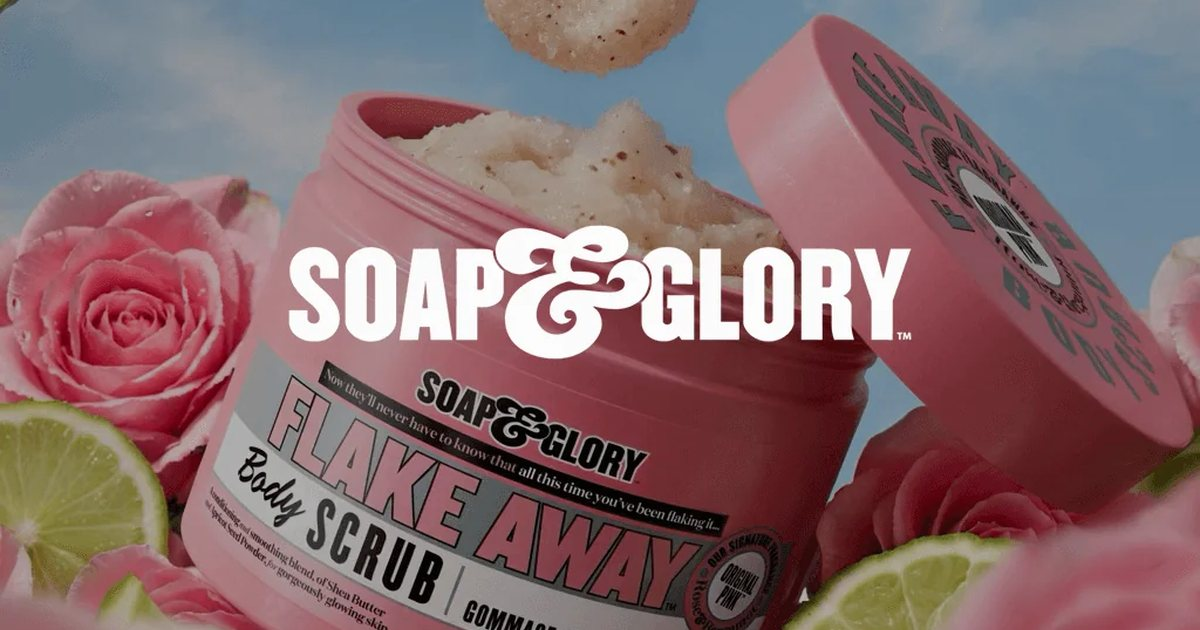
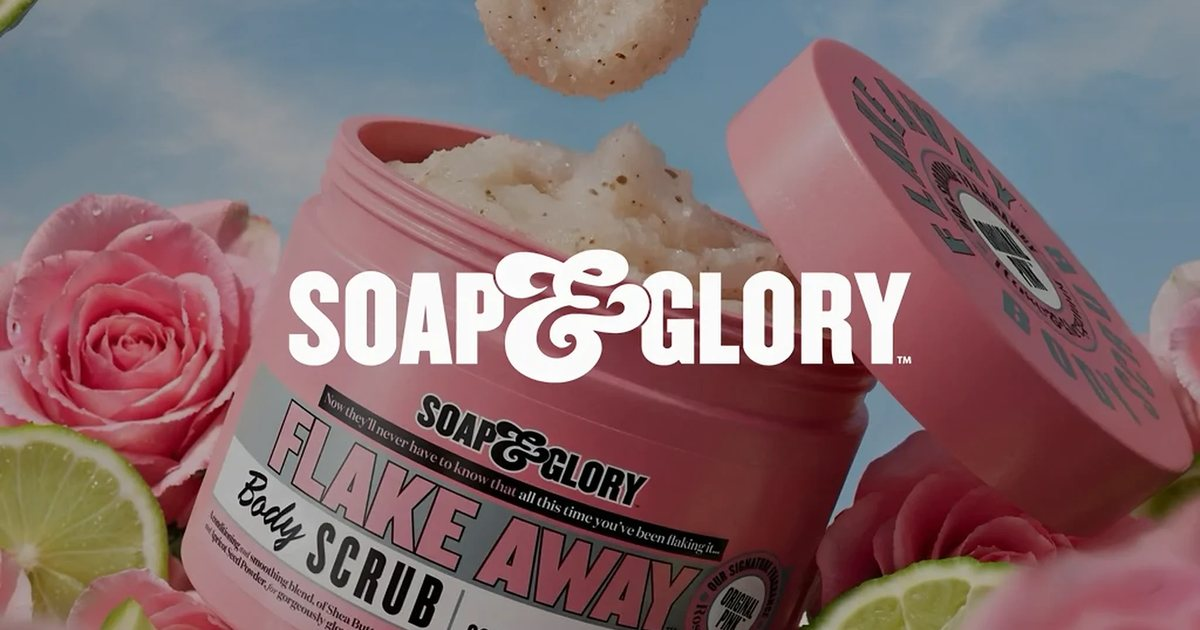
Soap & Glory: new header
New landscape header cropped from the new portrait key visual with the logo
centered. The previous cover moves to the start of the gallery; link preview
regenerated.

Claude-Session: https://claude.ai/code/session_01T7Gp6gWJVyCsnSqvmreLM5

diff --git a/work/soapandglory/index.html b/work/soapandglory/index.html
@@ -32,6 +32,7 @@
             "description": "A series of AI-crafted beauty visuals for Soap & Glory, blending playful, fragrance-inspired worlds with precise product reproduction. Working alongside expert photoretouchers, I developed campaign-ready imagery that preserves packaging accuracy, material realism, and texture detail while pushing the creative possibilities beyond traditional product photography. Property of WPP Production / WPP Holding. Featured here to showcase my contribution as part of the production and creative team.",
             "image": [
               "https://nicolo-lombardi.com/assets/og/soapandglory.jpg",
+              "https://nicolo-lombardi.com/assets/fQqLobjVjQLcjn0oYAmyuUyPAs.webp",
               "https://nicolo-lombardi.com/assets/SKCYB8BMwkneaPvdQDQqhbuyVKE.webp",
               "https://nicolo-lombardi.com/assets/VsTh5pQROkDtulNoeTzjH4oFN10.webp",
               "https://nicolo-lombardi.com/assets/WPCII4Q6wfoAC5QLMGvrtZzfiMg.webp",
@@ -152,7 +153,7 @@
     </header>
 
     <!-- Pre-built by tools/build.mjs; js/app.js re-renders it with interactions -->
-    <main id="main"><article class="detail"><a class="back" href="/visuals/#p-soapandglory">back</a><section class="image-gallery" aria-label="Soap &amp; Glory images" aria-roledescription="carousel"><div class="image-track" tabindex="0" aria-label="Image carousel — use up and down arrows"><figure class="image-slide" role="group" aria-label="Image 1 of 9"><img src="/assets/SKCYB8BMwkneaPvdQDQqhbuyVKE.webp" alt="Soap &amp; Glory (AI Product Shot), image 1" loading="lazy" decoding="async"></figure><figure class="image-slide" role="group" aria-label="Image 2 of 9"><img src="/assets/VsTh5pQROkDtulNoeTzjH4oFN10.webp" alt="Soap &amp; Glory (AI Product Shot), image 2" loading="lazy" decoding="async"></figure><figure class="image-slide" role="group" aria-label="Image 3 of 9"><img src="/assets/WPCII4Q6wfoAC5QLMGvrtZzfiMg.webp" alt="Soap &amp; Glory (AI Product Shot), image 3" loading="lazy" decoding="async"></figure><figure class="image-slide" role="group" aria-label="Image 4 of 9"><img src="/assets/ZNevGqjeZtnNwmtIkJQYvFLGwNI.webp" alt="Soap &amp; Glory (AI Product Shot), image 4" loading="lazy" decoding="async"></figure><figure class="image-slide" role="group" aria-label="Image 5 of 9"><img src="/assets/qxYVszQfCWqf8VjXjMmMxJaTd9I.webp" alt="Soap &amp; Glory (AI Product Shot), image 5" loading="lazy" decoding="async"></figure><figure class="image-slide" role="group" aria-label="Image 6 of 9"><img src="/assets/soapandglory-01.webp" alt="Soap &amp; Glory (AI Product Shot), image 6" loading="lazy" decoding="async"></figure><figure class="image-slide" role="group" aria-label="Image 7 of 9"><img src="/assets/soapandglory-02.webp" alt="Soap &amp; Glory (AI Product Shot), image 7" loading="lazy" decoding="async"></figure><figure class="image-slide" role="group" aria-label="Image 8 of 9"><img src="/assets/soapandglory-03.webp" alt="Soap &amp; Glory (AI Product Shot), image 8" loading="lazy" decoding="async"></figure><figure class="image-slide" role="group" aria-label="Image 9 of 9"><img src="/assets/soapandglory-04.webp" alt="Soap &amp; Glory (AI Product Shot), image 9" loading="lazy" decoding="async"></figure></div><div class="image-navigation"><button class="gallery-prev" aria-label="Previous image">↑</button><button class="gallery-next" aria-label="Next image">↓</button></div></section><header class="detail-heading"><h1>Soap &amp; Glory</h1><p>AI Product Shot</p></header><div class="detail-text"><h2>About the project</h2><p>A series of AI-crafted beauty visuals for Soap &amp; Glory, blending playful, fragrance-inspired worlds with precise product reproduction. Working alongside expert photoretouchers, I developed campaign-ready imagery that preserves packaging accuracy, material realism, and texture detail while pushing the creative possibilities beyond traditional product photography.
+    <main id="main"><article class="detail"><a class="back" href="/visuals/#p-soapandglory">back</a><section class="image-gallery" aria-label="Soap &amp; Glory images" aria-roledescription="carousel"><div class="image-track" tabindex="0" aria-label="Image carousel — use up and down arrows"><figure class="image-slide" role="group" aria-label="Image 1 of 10"><img src="/assets/fQqLobjVjQLcjn0oYAmyuUyPAs.webp" alt="Soap &amp; Glory (AI Product Shot), image 1" loading="lazy" decoding="async"></figure><figure class="image-slide" role="group" aria-label="Image 2 of 10"><img src="/assets/SKCYB8BMwkneaPvdQDQqhbuyVKE.webp" alt="Soap &amp; Glory (AI Product Shot), image 2" loading="lazy" decoding="async"></figure><figure class="image-slide" role="group" aria-label="Image 3 of 10"><img src="/assets/VsTh5pQROkDtulNoeTzjH4oFN10.webp" alt="Soap &amp; Glory (AI Product Shot), image 3" loading="lazy" decoding="async"></figure><figure class="image-slide" role="group" aria-label="Image 4 of 10"><img src="/assets/WPCII4Q6wfoAC5QLMGvrtZzfiMg.webp" alt="Soap &amp; Glory (AI Product Shot), image 4" loading="lazy" decoding="async"></figure><figure class="image-slide" role="group" aria-label="Image 5 of 10"><img src="/assets/ZNevGqjeZtnNwmtIkJQYvFLGwNI.webp" alt="Soap &amp; Glory (AI Product Shot), image 5" loading="lazy" decoding="async"></figure><figure class="image-slide" role="group" aria-label="Image 6 of 10"><img src="/assets/qxYVszQfCWqf8VjXjMmMxJaTd9I.webp" alt="Soap &amp; Glory (AI Product Shot), image 6" loading="lazy" decoding="async"></figure><figure class="image-slide" role="group" aria-label="Image 7 of 10"><img src="/assets/soapandglory-01.webp" alt="Soap &amp; Glory (AI Product Shot), image 7" loading="lazy" decoding="async"></figure><figure class="image-slide" role="group" aria-label="Image 8 of 10"><img src="/assets/soapandglory-02.webp" alt="Soap &amp; Glory (AI Product Shot), image 8" loading="lazy" decoding="async"></figure><figure class="image-slide" role="group" aria-label="Image 9 of 10"><img src="/assets/soapandglory-03.webp" alt="Soap &amp; Glory (AI Product Shot), image 9" loading="lazy" decoding="async"></figure><figure class="image-slide" role="group" aria-label="Image 10 of 10"><img src="/assets/soapandglory-04.webp" alt="Soap &amp; Glory (AI Product Shot), image 10" loading="lazy" decoding="async"></figure></div><div class="image-navigation"><button class="gallery-prev" aria-label="Previous image">↑</button><button class="gallery-next" aria-label="Next image">↓</button></div></section><header class="detail-heading"><h1>Soap &amp; Glory</h1><p>AI Product Shot</p></header><div class="detail-text"><h2>About the project</h2><p>A series of AI-crafted beauty visuals for Soap &amp; Glory, blending playful, fragrance-inspired worlds with precise product reproduction. Working alongside expert photoretouchers, I developed campaign-ready imagery that preserves packaging accuracy, material realism, and texture detail while pushing the creative possibilities beyond traditional product photography.
 
 Property of WPP Production / WPP Holding. Featured here to showcase my contribution as part of the production and creative team.</p></div><a class="next-project" href="/work/wichita-666/"><span>Next project</span><strong>Wichita Production</strong></a></article></main>
 

diff --git a/visuals/index.html b/visuals/index.html
@@ -161,7 +161,7 @@
     </header>
 
     <!-- Pre-built by tools/build.mjs; js/app.js re-renders it with interactions -->
-    <main id="main"><h1 class="sr-only">Visual projects by Nicoló Lombardi</h1><div class="project-scroll" aria-label="Visual projects"><section class="project-section" id="p-soapandglory" data-project="soapandglory" aria-label="Soap &amp; Glory"><a class="project-open" href="/work/soapandglory/" aria-label="Open Soap &amp; Glory project"></a><img src="/assets/fQqLobjVjQLcjn0oYAmyuUyPAs.webp" alt="Soap &amp; Glory — AI Product Shot by Nicoló Lombardi" loading="eager" decoding="async"></section><section class="project-section" id="p-toyota" data-project="toyota" aria-label="Toyota — Ma Toyota est Fantastique"><a class="project-open" href="/work/toyota/" aria-label="Open Toyota — Ma Toyota est Fantastique project"></a><img src="/assets/toyota-header.webp" alt="Toyota — Ma Toyota est Fantastique — Digital Asset by Nicoló Lombardi" loading="lazy" decoding="async"></section><section class="project-section" id="p-elaguila" data-project="elaguila" aria-label="El Águila — La hora dorada"><a class="project-open" href="/work/elaguila/" aria-label="Open El Águila — La hora dorada project"></a><img src="/assets/elaguila-header.webp" alt="El Águila — La hora dorada — Virtual Production by Nicoló Lombardi" loading="lazy" decoding="async"></section><section class="project-section" id="p-anaya" data-project="anaya" aria-label="Anaya — ANAYA"><a class="project-open" href="/work/anaya/" aria-label="Open Anaya — ANAYA project"></a><img src="/assets/anaya-header.webp" alt="Anaya — ANAYA — Educational Video by Nicoló Lombardi" loading="lazy" decoding="async"></section><section class="project-section" id="p-wppproduction" data-project="wppproduction" aria-label="WPP Production — Virtual Production"><a class="project-open" href="/work/wppproduction/" aria-label="Open WPP Production — Virtual Production project"></a><img src="/assets/wppproduction-header.webp" alt="WPP Production — Virtual Production — Virtual Production by Nicoló Lombardi" loading="lazy" decoding="async"></section></div><a class="view-project" href="/work/soapandglory/" aria-label="View Soap &amp; Glory project" hidden>view project</a></main>
+    <main id="main"><h1 class="sr-only">Visual projects by Nicoló Lombardi</h1><div class="project-scroll" aria-label="Visual projects"><section class="project-section" id="p-soapandglory" data-project="soapandglory" aria-label="Soap &amp; Glory"><a class="project-open" href="/work/soapandglory/" aria-label="Open Soap &amp; Glory project"></a><img src="/assets/soapandglory-header.webp" alt="Soap &amp; Glory — AI Product Shot by Nicoló Lombardi" loading="eager" decoding="async"></section><section class="project-section" id="p-toyota" data-project="toyota" aria-label="Toyota — Ma Toyota est Fantastique"><a class="project-open" href="/work/toyota/" aria-label="Open Toyota — Ma Toyota est Fantastique project"></a><img src="/assets/toyota-header.webp" alt="Toyota — Ma Toyota est Fantastique — Digital Asset by Nicoló Lombardi" loading="lazy" decoding="async"></section><section class="project-section" id="p-elaguila" data-project="elaguila" aria-label="El Águila — La hora dorada"><a class="project-open" href="/work/elaguila/" aria-label="Open El Águila — La hora dorada project"></a><img src="/assets/elaguila-header.webp" alt="El Águila — La hora dorada — Virtual Production by Nicoló Lombardi" loading="lazy" decoding="async"></section><section class="project-section" id="p-anaya" data-project="anaya" aria-label="Anaya — ANAYA"><a class="project-open" href="/work/anaya/" aria-label="Open Anaya — ANAYA project"></a><img src="/assets/anaya-header.webp" alt="Anaya — ANAYA — Educational Video by Nicoló Lombardi" loading="lazy" decoding="async"></section><section class="project-section" id="p-wppproduction" data-project="wppproduction" aria-label="WPP Production — Virtual Production"><a class="project-open" href="/work/wppproduction/" aria-label="Open WPP Production — Virtual Production project"></a><img src="/assets/wppproduction-header.webp" alt="WPP Production — Virtual Production — Virtual Production by Nicoló Lombardi" loading="lazy" decoding="async"></section></div><a class="view-project" href="/work/soapandglory/" aria-label="View Soap &amp; Glory project" hidden>view project</a></main>
 
     <aside id="about" role="dialog" aria-modal="true" aria-label="About Nicoló Lombardi" hidden>
       <div class="about-name" aria-hidden="true">Nicoló Lombardi</div>

diff --git a/js/data.js b/js/data.js
@@ -284,8 +284,9 @@ export const projects = [
     type: "AI Product Shot",
     description:
       "A series of AI-crafted beauty visuals for Soap & Glory, blending playful, fragrance-inspired worlds with precise product reproduction. Working alongside expert photoretouchers, I developed campaign-ready imagery that preserves packaging accuracy, material realism, and texture detail while pushing the creative possibilities beyond traditional product photography.\n\nProperty of WPP Production / WPP Holding. Featured here to showcase my contribution as part of the production and creative team.",
-    cover: "/assets/fQqLobjVjQLcjn0oYAmyuUyPAs.webp",
+    cover: "/assets/soapandglory-header.webp",
     images: [
+      "/assets/fQqLobjVjQLcjn0oYAmyuUyPAs.webp",
       "/assets/SKCYB8BMwkneaPvdQDQqhbuyVKE.webp",
       "/assets/VsTh5pQROkDtulNoeTzjH4oFN10.webp",
       "/assets/WPCII4Q6wfoAC5QLMGvrtZzfiMg.webp",
